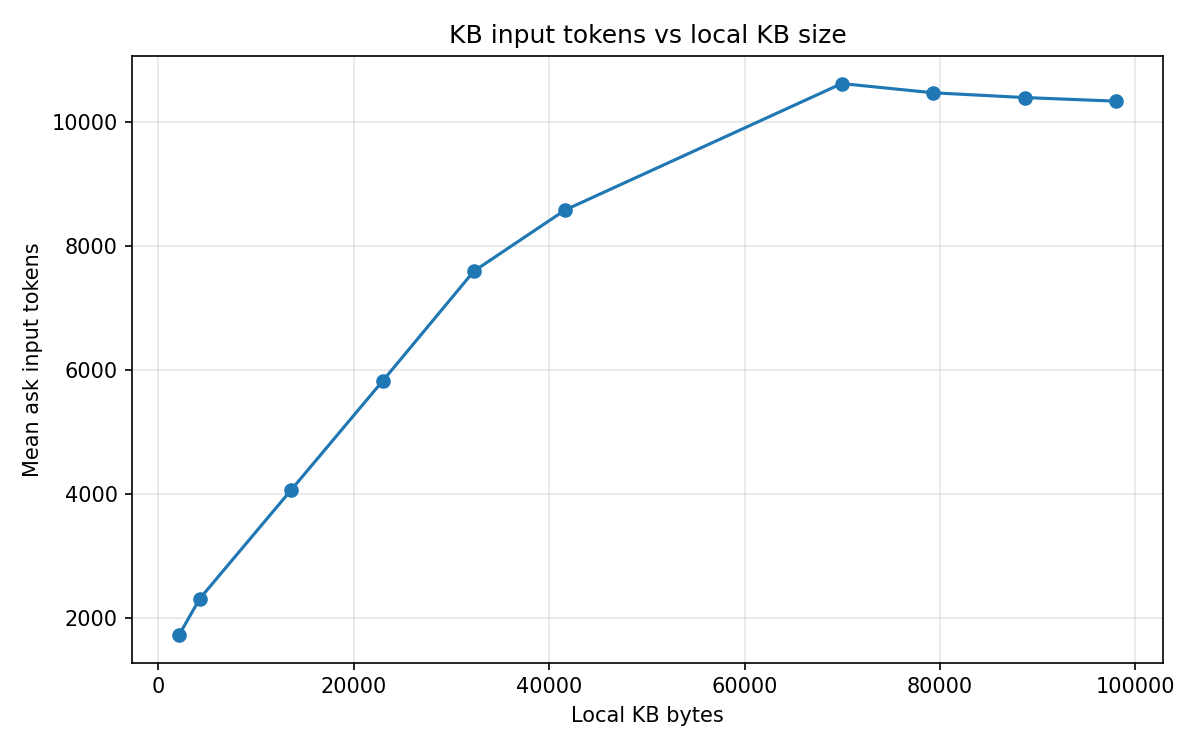
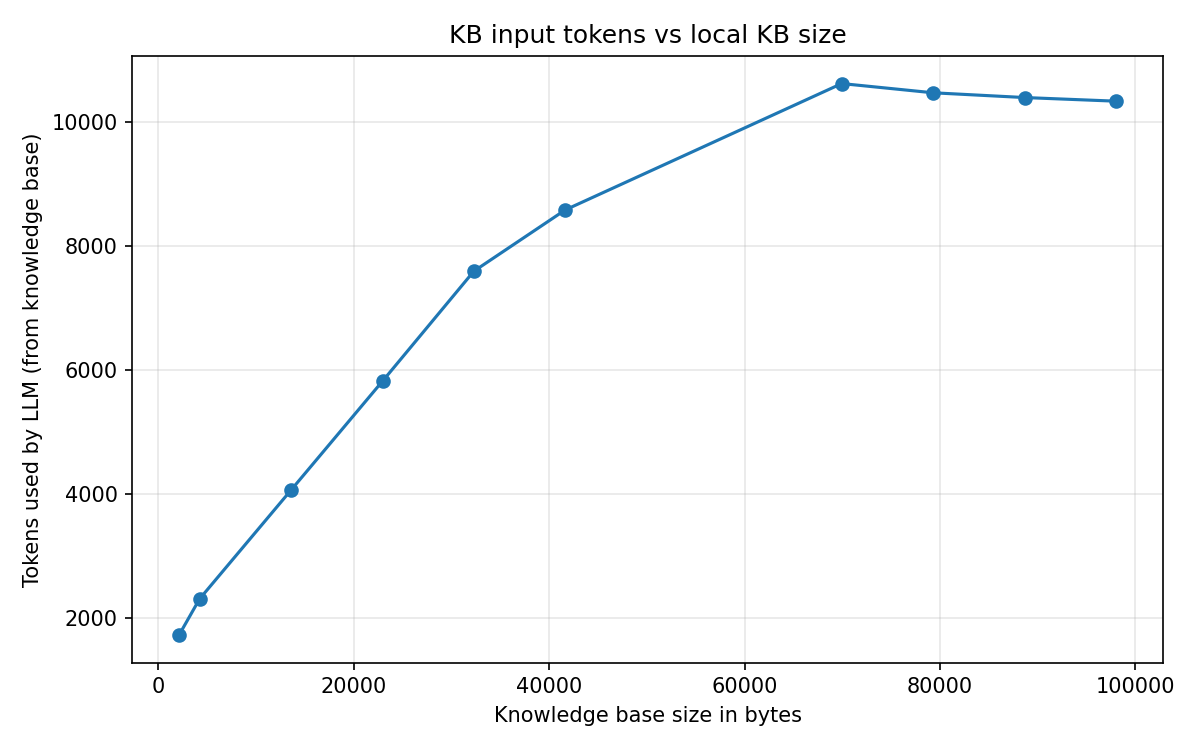
new benchmark plots

Changed region(s): [[0.0, 0.184, 0.0308, 0.7973], [0.4008, 0.92, 0.6783, 0.9813]]

diff --git a/scripts/plot_kb_scaling.py b/scripts/plot_kb_scaling.py
@@ -97,7 +97,7 @@ def generate_artifacts(csv_path: Path, output_dir: Path) -> dict[str, Path]:
         x=[int(row["file_count"]) for row in rows],
         y=[float(row["ask_elapsed_ms_mean"]) for row in rows],
         xlabel="File count",
-        ylabel="Mean ask elapsed (ms)",
+        ylabel="Mean ask latency (ms)",
         title="KB search latency vs file count",
     )
     _plot_xy(
@@ -105,15 +105,15 @@ def generate_artifacts(csv_path: Path, output_dir: Path) -> dict[str, Path]:
         x=[int(row["file_count"]) for row in rows],
         y=[float(row["ask_input_tokens_mean"]) for row in rows],
         xlabel="File count",
-        ylabel="Mean ask input tokens",
+        ylabel="Tokens used by LLM (from knowledge base)",
         title="KB input tokens vs file count",
     )
     _plot_xy(
         input_tokens_vs_bytes,
         x=[int(row["local_store_bytes"]) for row in rows],
         y=[float(row["ask_input_tokens_mean"]) for row in rows],
-        xlabel="Local KB bytes",
-        ylabel="Mean ask input tokens",
+        xlabel="Knowledge base size in bytes",
+        ylabel="Tokens used by LLM (from knowledge base)",
         title="KB input tokens vs local KB size",
     )
     _plot_xy(
@@ -121,7 +121,7 @@ def generate_artifacts(csv_path: Path, output_dir: Path) -> dict[str, Path]:
         x=[int(row["vector_store_usage_bytes_after"]) for row in rows],
         y=[float(row["ask_elapsed_ms_mean"]) for row in rows],
         xlabel="Vector store usage bytes after upload",
-        ylabel="Mean ask elapsed (ms)",
+        ylabel="Mean ask latency (ms)",
         title="KB search latency vs vector store size",
     )
     return {
